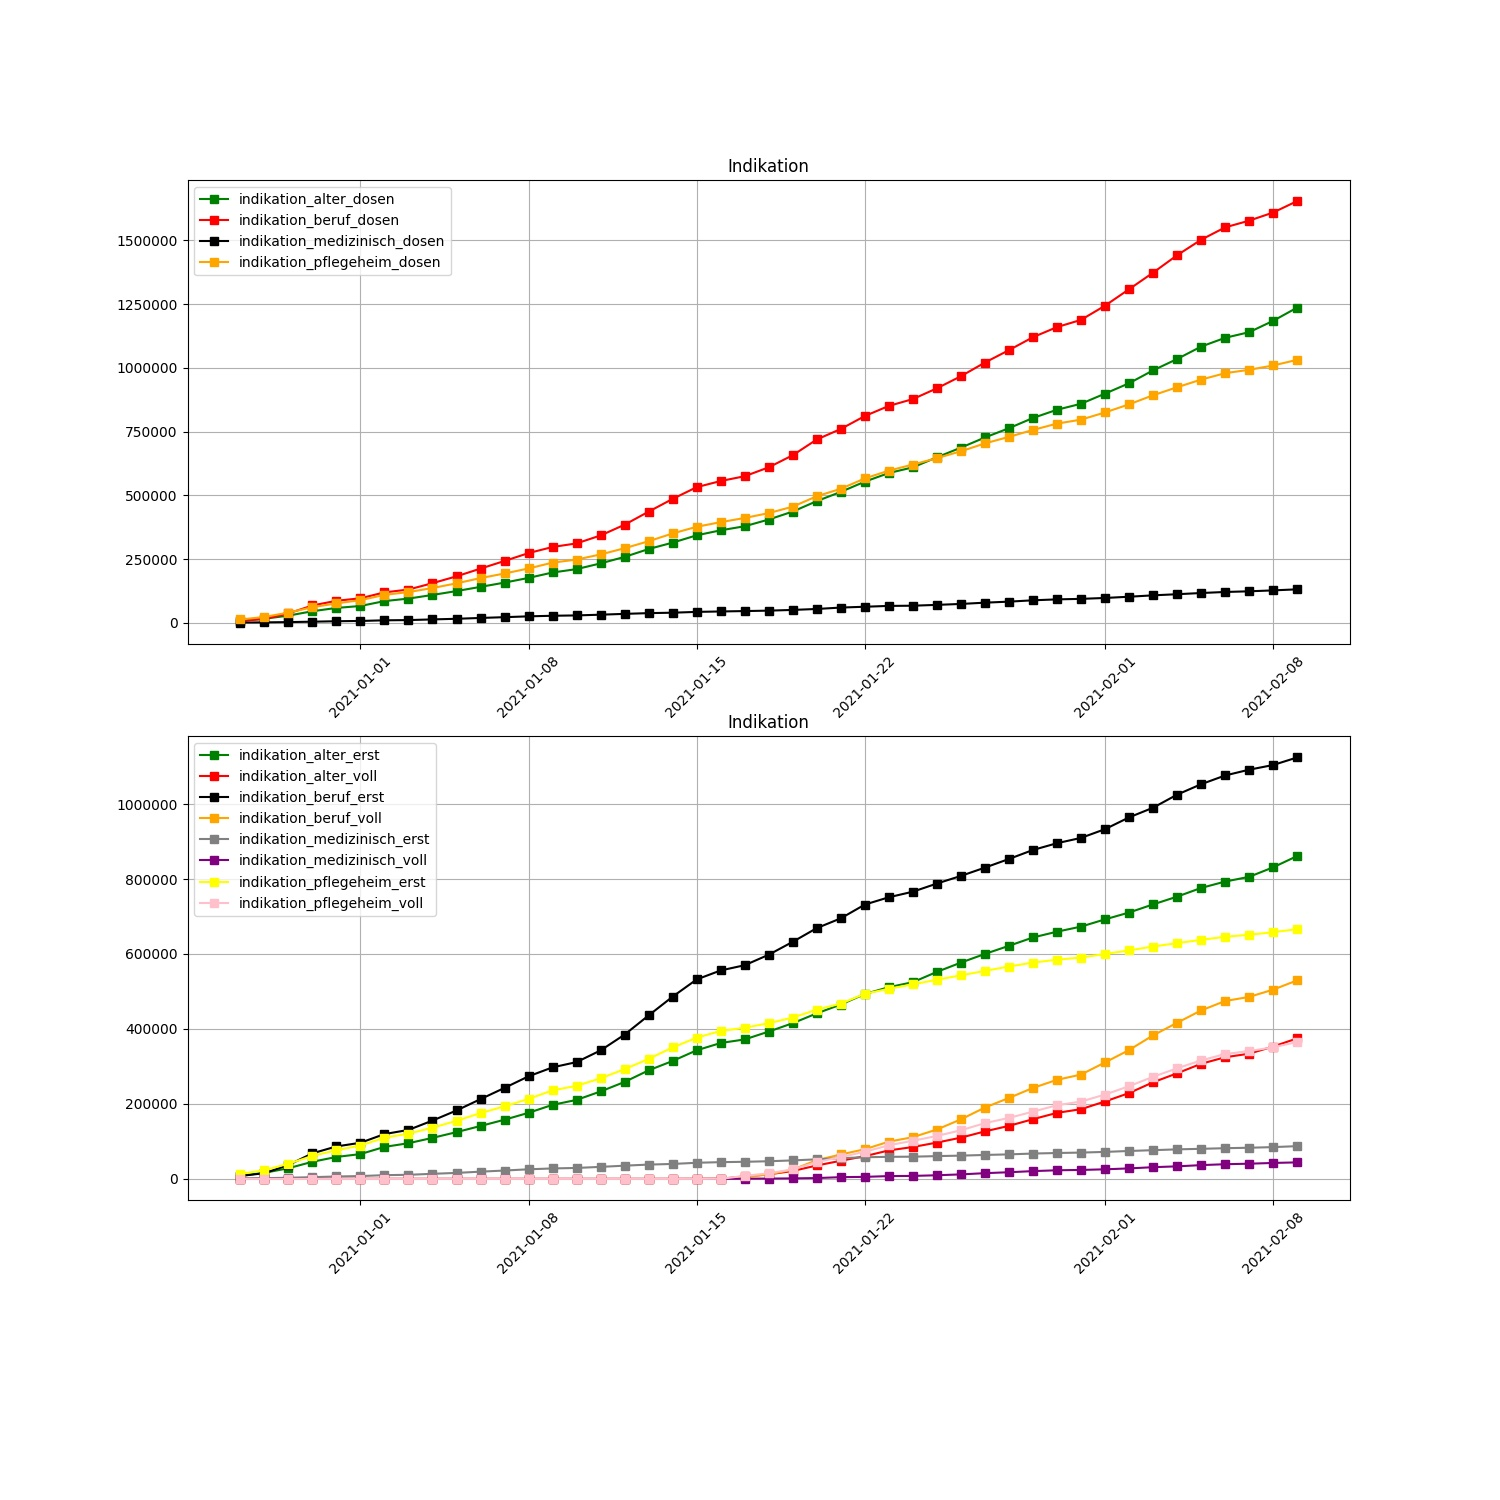
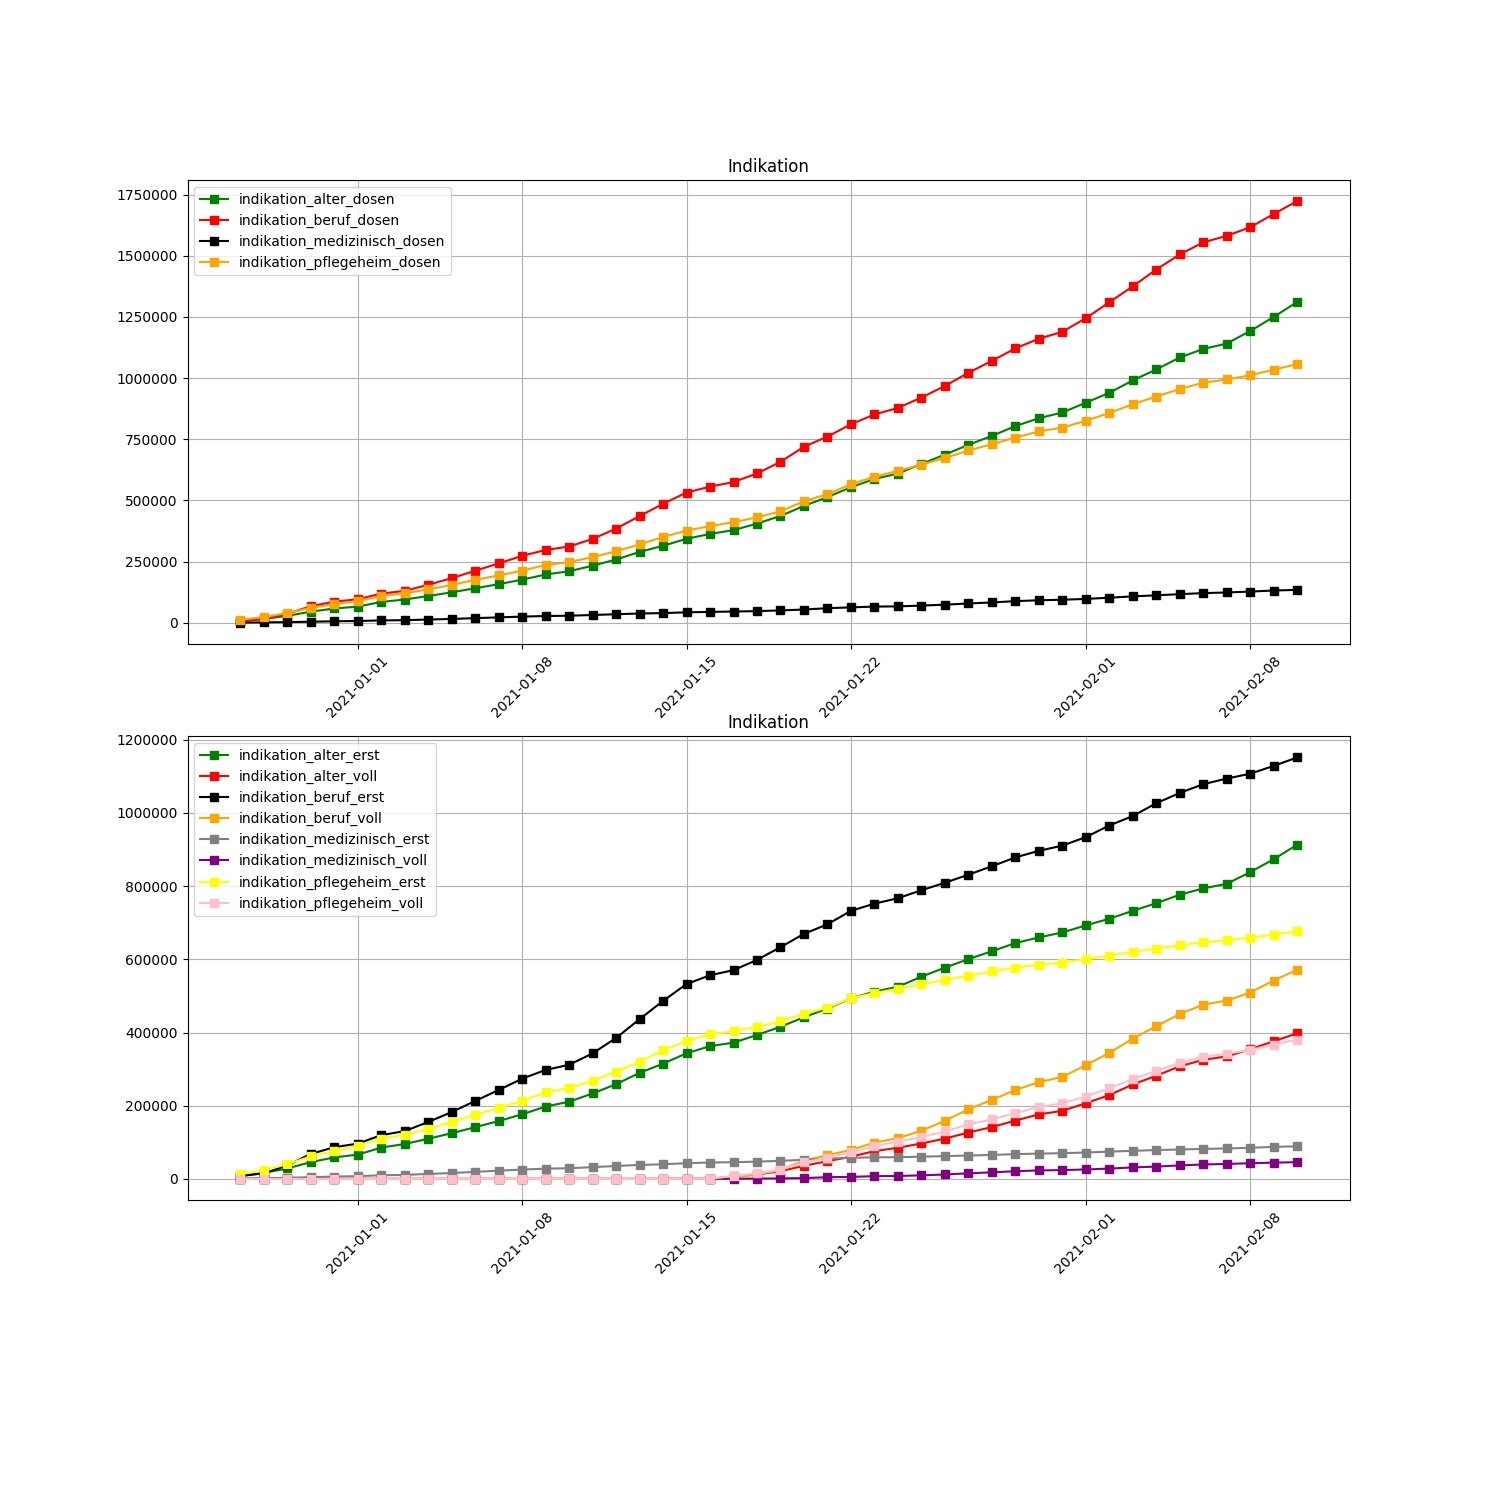
Crontab commit

diff --git a/Readme.md b/Readme.md
@@ -1,19 +1,19 @@
-# Corona vaccine Germany - Stand 2021-02-09
+# Corona vaccine Germany - Stand 2021-02-10
 ## Dashboard by [Simon Hamacher](https://www.shamacher.eu)
 ## Impfstoffe Übersicht
 **Impfstoffhersteller** | **verimpfte Dosen**
 -------- | :--------:
-Biontech | 3442270
-Moderna | 67337
-Astrazeneca | 43
+Biontech | 3591012
+Moderna | 72139
+Astrazeneca | 5997
 
 
 ## Quoten
-**Total Verimpfte Dosen:** | 3509650
+**Total Verimpfte Dosen:** | 3669148
 -------- | :--------:
-**Erst-Impfquote** | 2.89 %
-**Voll-Impfquote** | 1.33 %
-**Imfungen Durchschnitt** | 77992.44 pro Tag
+**Erst-Impfquote** | 2.99 %
+**Voll-Impfquote** | 1.42 %
+**Imfungen Durchschnitt** | 79764.09 pro Tag
 ## Graphen
 <img src="Impfungen-Corona-01.jpg" alt="Corona-1" title="optionaler Titel" />
 <img src="Impfungen-Corona-02.jpg" alt="Corona-2" title="optionaler Titel" />
